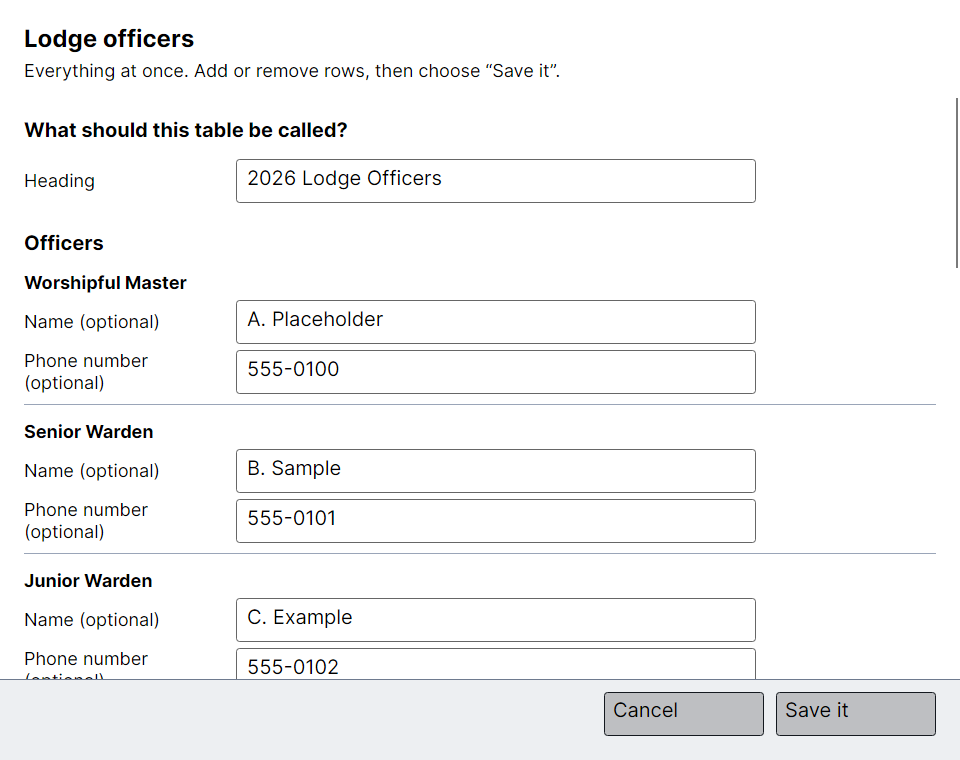
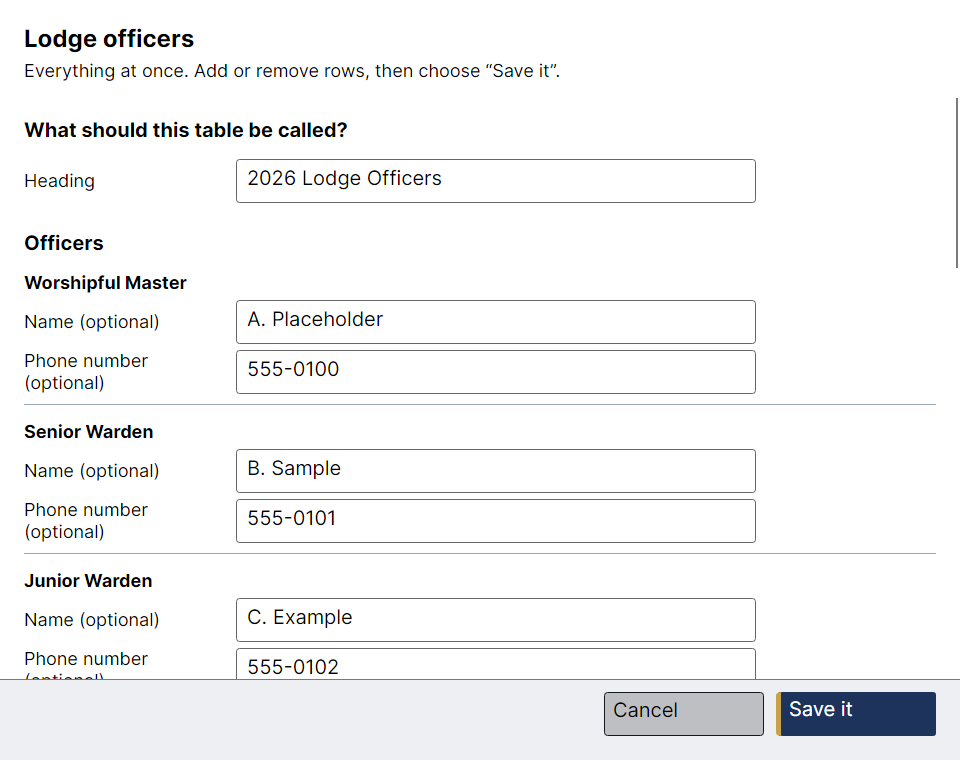
feat(M42): four dialogs that would not say what they meant
Three §14.4 dialog findings and the §14.3 "two disability models" one,
plus a styling bug they exposed.

"Stop" in the import wizard did not say stop what — the step, the
import, or the program — though its automation name had said it in full
since M12. It now reads "Stop the import". "Next", the button the user
is meant to press, was styled identically to it and is now the default.

Setting IsDefault did not work at first, and the reason matters:
Button.action was declared AFTER Button[IsDefault=True] in
Controls.axaml, and later styles win. From M37 onward every button that
was both default and marked with Tokens.Action() silently came out
looking ordinary — the officers-sync dialog's "Update the table" had
been in that state for milestones, visible in the committed screenshot.
The default block now sits last.

The settings size slider showed only where it currently sat; it now has
ticks and two labelled ends, worded about the buttons and menus rather
than about percentages.

And the officers-sync dialog held the one control in the app that was
unavailable and would not say why — M11's rule was enforced for the
panel and the menu bar and stopped at the dialog's edge. The tick box
for an office two brothers claim now reads "Choose one of the names
above first" until one is chosen, in its label and its HelpText, so the
reason is read rather than inferred from a grey box.

All three tests verified failing against the pre-M42 dialogs, and the
[…]

Changed region(s): [[0.7812, 0.9079, 1.0, 0.9684]]

diff --git a/tests/App.HeadlessTests/PeopleShellTests.cs b/tests/App.HeadlessTests/PeopleShellTests.cs
@@ -1,3 +1,8 @@
+using Avalonia.Automation;
+using TrestleBoard.Widgets.Builtins.OfficersTable;
+using TrestleBoard.Widgets.Roster;
+using TrestleBoard.Layout.Widgets;
+using TrestleBoard.App.Theme;
 using Avalonia.Controls;
 using Avalonia.Headless;
 using Avalonia.LogicalTree;
@@ -217,6 +222,86 @@ public sealed class PeopleShellTests
             Assert.NotEqual(save.Theme, remove.Theme);
 
             window.Close();
+        }, TestContext.Current.CancellationToken);
+    }
+
+
+    /// <summary>
+    /// M42, review §14.4: the import wizard's two footer buttons said the wrong things about
+    /// themselves. "Stop" did not say stop WHAT — the step, the import, or the program — and "Next",
+    /// the button the user is meant to press, looked exactly like the one that abandons the work.
+    /// </summary>
+    [Fact]
+    public async Task TheImportWizardSaysWhatStopStopsAndMarksTheWayOnward()
+    {
+        await Session.Dispatch(() =>
+        {
+            var window = new RosterImportWindow(RosterBook.Empty);
+            window.Show();
+            Avalonia.Threading.Dispatcher.UIThread.RunJobs();
+
+            IReadOnlyList<Button> buttons = window.GetLogicalDescendants().OfType<Button>()
+                .Where(b => b.TemplatedParent is null)
+                .ToList();
+
+            Button stop = Assert.Single(buttons, b => b.IsCancel);
+            Assert.Equal("Stop the import", stop.Content as string);
+
+            // The way onward is the default, which is both how the primary treatment is chosen
+            // (M16) and what makes Enter mean "carry on".
+            Button onward = Assert.Single(buttons, b => b.IsDefault);
+            Assert.Equal("Find the file…", onward.Content as string);
+
+            // And it actually WEARS the primary treatment. M37's action style was declared after
+            // M16's default style, so any button that was both — this one, and the officers-sync
+            // dialog's "Update the table" — quietly came out looking ordinary (M42).
+            Assert.Equal(
+                window.TryFindResource(Tokens.PrimaryButtonTheme, out object? primary) ? primary : null,
+                onward.Theme);
+            Assert.NotEqual(onward.Theme, stop.Theme);
+
+            window.Close();
+        }, TestContext.Current.CancellationToken);
+    }
+
+/// <summary>
+    /// M42, review §14.3: the officers-sync dialog held the one control in the app that was
+    /// unavailable and said nothing about why. The M11 rule — nothing becomes unavailable without
+    /// saying why, in plain English — stopped at the action panel's edge and never reached dialogs.
+    /// </summary>
+    [Fact]
+    public async Task TheOfficersSyncCheckboxSaysWhyItCannotBeTickedYet()
+    {
+        await Session.Dispatch(() =>
+        {
+            // Two brothers claiming one office is what the app refuses to decide (M19), and is
+            // therefore the row whose tick box starts unavailable.
+            List<Member> book =
+            [
+                new() { Id = "p1", DisplayName = "Aaron Placeholder", Office = "Tyler" },
+                new() { Id = "p2", DisplayName = "Bertram Placeholder", Office = "Tyler" },
+            ];
+
+            OfficersProjection plan = OfficersRosterProjection.Plan(
+                new OfficersTableDefinition().CreateEmpty(
+                    new WidgetSeed("Placeholder Lodge No. 000", 7, 2026, "first Tuesday")),
+                book);
+            Assert.Contains(plan.Proposals, p => p.IsAmbiguous);
+
+            var dialog = new OfficersSyncDialog(plan, inserting: false);
+            dialog.Show();
+            Avalonia.Threading.Dispatcher.UIThread.RunJobs();
+
+            CheckBox blocked = Assert.Single(
+                dialog.GetLogicalDescendants().OfType<CheckBox>(),
+                c => !c.IsEnabled);
+
+            Assert.Equal("Choose one of the names above first", blocked.Content as string);
+            Assert.Equal(
+                "Choose one of the names above first",
+                AutomationProperties.GetHelpText(blocked));
+
+            dialog.Close();
         }, TestContext.Current.CancellationToken);
     }
 

diff --git a/src/TrestleBoard.App/Dialogs/OfficersSyncDialog.cs b/src/TrestleBoard.App/Dialogs/OfficersSyncDialog.cs
@@ -321,15 +321,25 @@ internal sealed class OfficersSyncDialog : Window
             TextWrapping = TextWrapping.Wrap,
         });
 
+        // M42, review §14.3/§14.4. This was the app's one place where something was unavailable
+        // and said nothing about why - the M11 rule ("nothing becomes unavailable without saying
+        // why") stopped at the action panel's edge and never reached dialogs. The label itself
+        // carries the reason while it cannot be ticked, so the reason is READ rather than inferred
+        // from a grey box, and HelpText carries it for a screen reader the same way the menu bar
+        // has since M11.
+        string acceptWhenChosen = $"Put the one I chose into the {proposal.Position} row";
+        const string acceptWhyNot = "Choose one of the names above first";
+
         var accept = new CheckBox
         {
-            Content = $"Put the one I chose into the {proposal.Position} row",
+            Content = acceptWhyNot,
             FontSize = 18,
             MinHeight = 44,
             IsChecked = false,
             IsEnabled = false,
         };
-        AutomationProperties.SetName(accept, (string)accept.Content);
+        AutomationProperties.SetName(accept, acceptWhyNot);
+        AutomationProperties.SetHelpText(accept, acceptWhyNot);
         accept.IsCheckedChanged += (_, _) => Accept(proposal.Position, accept.IsChecked == true);
 
         string group = "office-" + proposal.Position;
@@ -357,7 +367,11 @@ internal sealed class OfficersSyncDialog : Window
                 _chosen[proposal.Position] = candidate;
 
                 // Only now can the row be accepted, and it is ticked for the user: they have just
-                // answered the question the row was asking.
+                // answered the question the row was asking. M42: and the label stops explaining
+                // why it could not be, because it now can be.
+                accept.Content = acceptWhenChosen;
+                AutomationProperties.SetName(accept, acceptWhenChosen);
+                AutomationProperties.SetHelpText(accept, string.Empty);
                 accept.IsEnabled = true;
                 accept.IsChecked = true;
             };

diff --git a/src/TrestleBoard.App/Dialogs/SettingsDialog.cs b/src/TrestleBoard.App/Dialogs/SettingsDialog.cs
@@ -60,6 +60,11 @@ public sealed class SettingsDialog : Window
             Width = 380,
             MinHeight = 44,
             HorizontalAlignment = HorizontalAlignment.Left,
+
+            // M42, review §14.4: the slider showed only where it currently was, so neither end
+            // meant anything. Ticks give the travel a shape, and the two labels below say what the
+            // ends ARE - in words about the buttons and menus, not about percentages.
+            TickPlacement = TickPlacement.Outside,
         };
         AutomationProperties.SetName(_scale, "How big the buttons and menus are");
 
@@ -123,6 +128,17 @@ public sealed class SettingsDialog : Window
                     Spacing = 16,
                     Children = { _scale, _scaleLabel },
                 },
+                new Grid
+                {
+                    Width = 380,
+                    HorizontalAlignment = HorizontalAlignment.Left,
+                    ColumnDefinitions = new ColumnDefinitions("*,*"),
+                    Children =
+                    {
+                        EndLabel($"Normal ({AppSettings.MinScalePercent}%)", 0, HorizontalAlignment.Left),
+                        EndLabel($"Twice as big ({AppSettings.MaxScalePercent}%)", 1, HorizontalAlignment.Right),
+                    },
+                },
                 _preview,
                 new StackPanel
                 {
@@ -142,6 +158,22 @@ public sealed class SettingsDialog : Window
         Theme = Themes[Math.Max(0, _theme.SelectedIndex)].Choice,
         UiScalePercent = (int)_scale.Value,
     }.Normalised();
+
+    /// <summary>
+    /// One end of the size slider - what "all the way left" and "all the way right" actually mean,
+    /// which the slider itself never said.
+    /// </summary>
+    private static TextBlock EndLabel(string text, int column, HorizontalAlignment side)
+    {
+        var label = new TextBlock
+        {
+            Text = text,
+            FontSize = 16,
+            HorizontalAlignment = side,
+        };
+        Grid.SetColumn(label, column);
+        return label;
+    }
 
     private void UpdatePreview()
     {

diff --git a/tests/App.HeadlessTests/SettingsTests.cs b/tests/App.HeadlessTests/SettingsTests.cs
@@ -1,6 +1,9 @@
+using Avalonia.Controls.Primitives;
+using Avalonia.LogicalTree;
 using Avalonia.Controls;
 using Avalonia.Headless;
 using Avalonia.Media;
+using TrestleBoard.App.Dialogs;
 using TrestleBoard.App.Settings;
 using Xunit;
 
@@ -146,6 +149,35 @@ public sealed class SettingsTests
             Assert.Equal(ThemeChoice.Dark, result.Theme);
             Assert.Equal(125, result.UiScalePercent);
             Assert.False(dialog.Confirmed);
+
+            dialog.Close();
+        }, TestContext.Current.CancellationToken);
+    }
+
+    /// <summary>
+    /// M42, review §14.4: the size slider showed only where it currently sat, so neither end of it
+    /// meant anything — "100%" over a track with no labelled ends does not tell somebody what
+    /// happens if they drag it right.
+    /// </summary>
+    [Fact]
+    public async Task TheSizeSliderSaysWhatItsEndsMean()
+    {
+        await Session.Dispatch(() =>
+        {
+            var dialog = new SettingsDialog(new AppSettings());
+            dialog.Show();
+            Avalonia.Threading.Dispatcher.UIThread.RunJobs();
+
+            IReadOnlyList<string> texts = dialog.GetLogicalDescendants().OfType<TextBlock>()
+                .Select(t => t.Text ?? string.Empty)
+                .ToList();
+
+            Assert.Contains($"Normal ({AppSettings.MinScalePercent}%)", texts);
+            Assert.Contains($"Twice as big ({AppSettings.MaxScalePercent}%)", texts);
+
+            // And the travel has a shape, not just two ends.
+            Slider slider = Assert.Single(dialog.GetLogicalDescendants().OfType<Slider>());
+            Assert.NotEqual(TickPlacement.None, slider.TickPlacement);
 
             dialog.Close();
         }, TestContext.Current.CancellationToken);

diff --git a/src/TrestleBoard.App/Dialogs/RosterImportWindow.cs b/src/TrestleBoard.App/Dialogs/RosterImportWindow.cs
@@ -62,9 +62,17 @@ public sealed class RosterImportWindow : Window
         };
 
         _next = Big("Next", "Go on to the next step");
+
+        // M42, review §14.4: this is the button the user is meant to press, and it looked exactly
+        // like the one that abandons the import. IsDefault is what the theme keys the primary
+        // treatment off (M16), and it makes Enter mean "carry on" — which is what somebody who has
+        // just answered a question expects it to mean.
+        _next.IsDefault = true;
         _next.Click += async (_, _) => await NextAsync();
 
-        var cancel = Big("Stop", "Stop importing and change nothing");
+        // M42: "Stop" alone did not say stop WHAT — the step, the import, or the program. The
+        // automation name had said it in full since M12; the visible label now agrees with it.
+        var cancel = Big("Stop the import", "Stop importing and change nothing");
         cancel.IsCancel = true;
         cancel.Click += (_, _) => Close();
 

diff --git a/PLAN.md b/PLAN.md
@@ -2257,6 +2257,31 @@ against code that had already shipped. That part is a backlog being paid off rat
 
 ---
 
+### M42 - Four dialogs that would not say what they meant (delivered 2026-08-08, `docs/M42-spec.md`)
+
+Three section 14.4 dialog findings and the section 14.3 "two disability models" one, plus a styling
+bug they exposed.
+
+"Stop" in the import wizard did not say stop WHAT - the step, the import, or the program - though
+its automation name had said it in full since M12; it now reads "Stop the import". "Next", the
+button the user is meant to press, was styled identically to it and is now the default.
+
+**Setting IsDefault did not work at first, and the reason matters.** `Button.action` was declared
+AFTER `Button[IsDefault=True]` in `Controls.axaml`, and later styles win - so from M37 onward every
+button that was both default and marked with `Tokens.Action()` silently came out looking ordinary.
+The officers-sync dialog's "Update the table" had been in that state for milestones, visible in the
+committed screenshot, and nobody looked. The default block now sits last.
+
+The settings size slider showed only where it currently sat; it now has ticks and two labelled ends,
+worded about the buttons and menus rather than about percentages.
+
+And the officers-sync dialog held the one control in the app that was unavailable and would not say
+why: M11's rule was enforced for the action panel and the menu bar and stopped at the dialog's edge.
+The tick box for an office two brothers claim now reads "Choose one of the names above first" until
+one is chosen, so the reason is READ rather than inferred from a grey box.
+
+---
+
 ## 12. Verification (end-to-end)
 
 1. **Per-milestone:** `dotnet build && dotnet test` locally + 3-OS CI matrix green; cavecrew-reviewer findings addressed; snapshot diffs reviewed as CI artifacts.
@@ -2791,9 +2816,11 @@ Minor = edge case or annoyance. PLAUSIBLE = argued, not reproduced.
   always lands at the default placement. The remaining ~20 shortcut-less commands are deliberate —
   align, distribute and the picture-geometry commands are typed into once and left alone.
 - **Two disability models in one window.** Menus and toolbar grey out; the action panel never greys
-  and explains instead. Same command, two behaviours, and dialogs (officers sync's disabled
-  checkbox) follow neither — the M11 "nothing unavailable without saying why" rule stops at the
-  panel's edge.
+  and explains instead. Same command, two behaviours. ~~Dialogs (officers sync's disabled checkbox)
+  follow neither — the M11 "nothing unavailable without saying why" rule stops at the panel's
+  edge.~~ — **the dialog half closed at M42**: the tick box says why it cannot be ticked, in its own
+  label and in its HelpText. The two models themselves remain deliberate and are recorded as such by
+  M11.
 - ~~**Raw style ids reach the user.** Format ▸ Paragraph style shows `body`, `table-row`,
   `lodge-table`; `StyleLabels.Describe` was written to prevent exactly this and is not called
   there.~~ — **fixed at M27** in both the menu and the panel flyout. (`table-row` and `lodge-table`
@@ -2855,9 +2882,11 @@ Minor = edge case or annoyance. PLAUSIBLE = argued, not reproduced.
 - Wizard: fourteen one-question steps with the "Show all at once" escape easy to miss; the final
   step puts Cancel directly beside "Save it" — one misclick discards fourteen answers (whether
   Cancel confirms there is the grid-vs-wizard inconsistency of §14.2).
-- Import mapping dialog: "Stop" is ambiguous (abandon everything?), and "Next" is grey rather than
-  the navy primary every other dialog uses.
-- Settings: the UI-scale slider shows only the current value — no min/max/ticks.
+- ~~Import mapping dialog: "Stop" is ambiguous (abandon everything?), and "Next" is grey rather than
+  the navy primary every other dialog uses.~~ — **fixed at M42**, and the grey "Next" turned out to
+  be a style-order bug affecting every default button that also carried `Tokens.Action()`.
+- ~~Settings: the UI-scale slider shows only the current value — no min/max/ticks.~~ — **fixed at
+  M42**: ticks, plus "Normal (100%)" and "Twice as big (200%)" at the ends.
 - ~~**Partly addressed at M24**: there is now a Save command and the title bar says "not saved yet" in
   words, so the state is visible somewhere. The toolbar itself still carries neither Save nor New,
   and the toolbar is where this audience looks first — the original finding stands for that surface.~~

diff --git a/docs/M42-spec.md b/docs/M42-spec.md
@@ -1,0 +1,73 @@
+# M42 — Four dialogs that would not say what they meant
+
+**Delivered 2026-08-08.** Closes three §14.4 dialog findings and the §14.3 "two disability models"
+one, plus a styling bug they exposed.
+
+---
+
+## 1. "Stop" did not say stop what
+
+The import wizard's footer read `Stop  Back  Next`. **Stop the step? The import? The program?** The
+automation name had said it in full since M12 — "Stop importing and change nothing" — and the
+visible label said a single ambiguous word. It now reads **"Stop the import"**.
+
+## 2. "Next" looked like the button that abandons the work
+
+`Next` is the button the user is meant to press, and it was styled identically to `Stop`. It is now
+`IsDefault`, which is both how the primary treatment is chosen (M16) and what makes Enter mean
+"carry on" — which is what somebody who has just answered a question expects it to mean.
+
+### The bug that hid under it
+
+Setting `IsDefault` did not work at first, and the reason is worth recording: **`Button.action` was
+declared after `Button[IsDefault=True]` in `Controls.axaml`, and later styles win.** So from M37
+onwards, every button that was *both* default and marked with `Tokens.Action()` silently came out
+looking ordinary. The officers-sync dialog's "Update the table" had been in that state for
+milestones — visible in the committed screenshot, and nobody looked.
+
+The `[IsDefault=True]` block now sits last. The way onward in a dialog is the way onward whether or
+not somebody also asked for the action affordance.
+
+## 3. The size slider had no ends
+
+Settings showed `100%` beside a bare track. Neither end meant anything: a number over an unlabelled
+track does not tell somebody what happens if they drag it right. It now has tick marks and two
+labels — **"Normal (100%)"** and **"Twice as big (200%)"** — worded about the buttons and menus
+rather than about percentages.
+
+## 4. The one control that was unavailable and would not say why
+
+M11's rule is that nothing in this app becomes unavailable without saying why, in plain English. It
+was enforced for the action panel and the menu bar, and **stopped at the dialog's edge**. The
+officers-sync dialog has a tick box per row, and the row where two brothers claim one office starts
+disabled — correctly, because M19 refuses to decide that for the user — with no explanation
+anywhere.
+
+The label itself now carries the reason while it cannot be ticked:
+
+| State | Label |
+| --- | --- |
+| No name chosen yet | **Choose one of the names above first** |
+| A name chosen | **Put the one I chose into the Senior Warden row** |
+
+The reason is *read* rather than inferred from a grey box, and `HelpText` carries it for a screen
+reader exactly as the menu bar has since M11.
+
+## 5. What guards it
+
+- `PeopleShellTests.TheImportWizardSaysWhatStopStopsAndMarksTheWayOnward` — the label, the default
+  flag, **and** that the default button actually wears the primary theme. That last assertion is
+  what catches the style-order bug, and it was verified failing with the reorder reverted.
+- `PeopleShellTests.TheOfficersSyncCheckboxSaysWhyItCannotBeTickedYet` — builds an ambiguous office
+  from two fictional members and asserts both the label and the HelpText.
+- `SettingsTests.TheSizeSliderSaysWhatItsEndsMean` — both end labels, and that the track has ticks.
+
+All three verified failing against the pre-M42 dialogs.
+
+## 6. What was NOT done
+
+The wizard's own "Cancel beside Save it" problem (§14.4) is untouched. It is the same family, but it
+needs the grid-versus-wizard confirmation inconsistency from §14.2 settled with it rather than
+separately.
+
+Six screenshots re-baked. Suite after M42: **1199 passing, 12 skipped**. No snapshot baseline moved.
